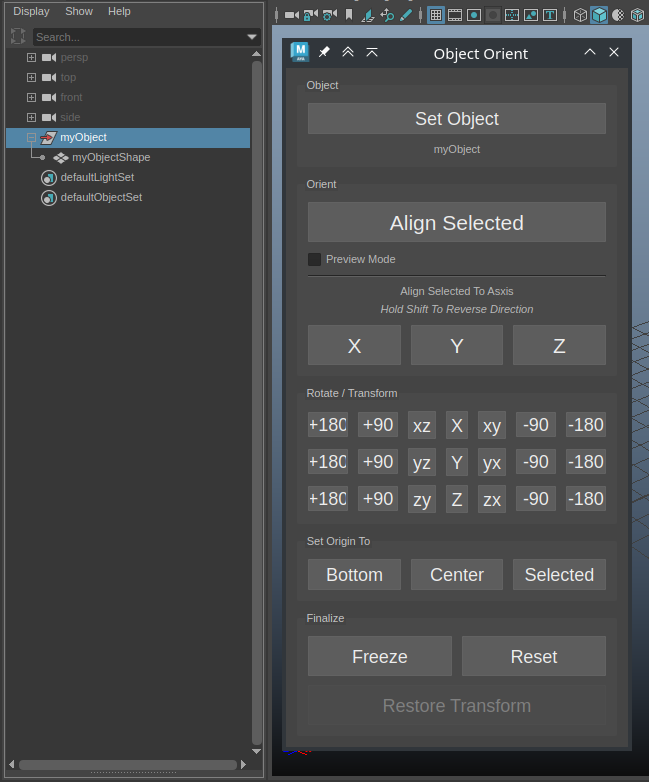
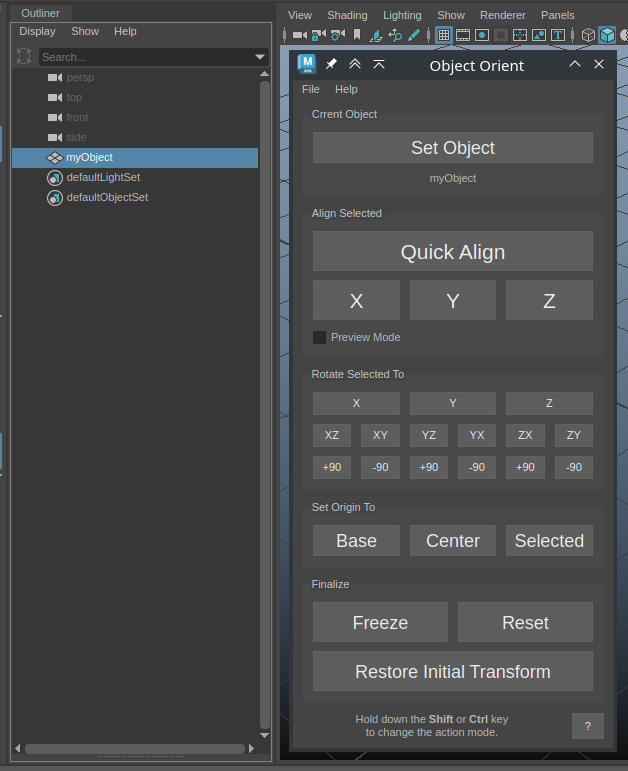
reorganize repository

Changed region(s): [[0.0, 0.0, 1.0, 1.0], [0.7866, 0.4358, 0.9379, 0.4669]]

diff --git a/pw_maya_restore_orient/orient_dialog.py b/pw_maya_restore_orient/orient_dialog.py
@@ -25,7 +25,7 @@ qMaya = ui.PyUI('MayaWindow').asQtObject()
 
 
 class ObjectOrientDialog(QMainWindow, dialog_UI.Ui_ObjectOrient):
-    manual_url = 'https://github.com/paulwinex/pw-maya-restore-object-orient/README.md'
+    manual_url = 'https://github.com/paulwinex/pw-maya-restore-object-orient/blob/master/README.md'
 
     def __init__(self):
         super(ObjectOrientDialog, self).__init__(qMaya)
@@ -94,6 +94,9 @@ class ObjectOrientDialog(QMainWindow, dialog_UI.Ui_ObjectOrient):
         self.freeze_btn.clicked.connect(self.on_freeze_pressed)
         self.reset_btn.clicked.connect(self.on_reset_pressed)
         self.restore_btn.clicked.connect(self.on_restore_pressed)
+        # Other
+        self.help_btn.clicked.connect(self.on_help_pressed)
+        self.manual_act.triggered.connect(self.on_help_pressed)
         # Variables
         self.orient = None  # type: ignore
         self.setFocusPolicy(Qt.StrongFocus)
@@ -256,6 +259,12 @@ class ObjectOrientDialog(QMainWindow, dialog_UI.Ui_ObjectOrient):
         except Exception as e:
             PopupError(str(e))
             traceback.print_exc()
+
+    def on_help_pressed(self):
+        import webbrowser
+        webbrowser.open(self.manual_url)
+
+    # key callbacks
 
     def update_texts(self) -> None:
         for w in self._alter_widgets:

diff --git a/README_RU.md b/README_RU.md
@@ -1,12 +1,11 @@
-# Maya Orient Tool
-
-![Dialog](images/img1.png)
+# Maya Restore Orient Tool
 
 Позволяет восстановить ориентацию объекта на основании выбранных опорных элементов.
 Этот инструмент полезен в случаях когда исходный объект был трансформирован в сцене 
 и трансформации были заморожены. Например, вся геометрия в сцене слита в единый объект.
 После разъединения большого объекта в отдельные объекты Orient Tool поможет вам восстановить трансформации
 исходных объектов и переместить их в центр мировых координат.
+Также можно вернуть восстановленный объект в исходное место в сцене, но уже с правильными трансформациями.
 
 ### Установка
 
@@ -15,9 +14,20 @@
 Для запуска в Maya добавьте кнопку с таким кодом
 
 ```python
-import pw_restore_object_orient
-pw_restore_object_orient.show()
+import pw_maya_restore_orient
+pw_maya_restore_orient.show()
 ```
+
+### Использование
+
+1. Для начала выберите в сцене объект. Это должна быть `Transform` нода. Не важно, один объект или группа. Нажмите кнопку `Set Object`
+2. Перейдите в режим выделения компонентов и выберите опорные элементы.
+При выделении старайтесь выбрать элементы находящиеся на оси симметрии или расположенные симметрично относительно центральной оси. 
+При выделении множества компонентов имеет смысл выбирать копланарные компоненты (лежат в одной плоскости).
+Из выбранных компонентов создается опорный вектор с которым в дальнейшем проводятся манипуляции выравнивания и поворотов.
+3. Выберите операцию и нажмите соответствующую кнопку в диалоге. 
+
+> Результаты операций выравнивания будут отличаться при зажатых модификаторах `Shift` и `Ctrl`.
 
 ### Варианты опорных элементов
 
@@ -33,61 +43,77 @@ pw_restore_object_orient.show()
 - 2 faces
 - multiple faces (more than 2)
 
-При выделении старайтесь выбрать опорные элементы находящиеся на оси симметрии 
-или расположенные симметрично относительно центральной оси. При выделении множества компонентов имеет смысл выбирать копланарные компоненты (лежат в одной плоскости). 
+#### Расчёт исходного вектора
 
-### Элементы управления
+Из любых поддерживаемых комбинаций выделенных компонентов всегда рассчитывается исходный вектор или базис для поворота.
+Например, если выделен 1 полигон то его исходный вектор это **нормаль данного полигона**. Если выделено несколько полигонов,
+то исходный вектор это **усреднённая нормаль** этих полигонов.
+При выделении ребра исходный вектор направлен **вдоль этого ребра**. 
+При выделении двух точке вектор будет направлен **из одной точки в другую**.
 
-`Set Object` - выбрать объект с которым будете работать. Это может быть только нода типа `Transform`. Если выбрана группа, то все манипуляции будут влиять на все объекты в группе.
+Это следует учитывать при выборе опорных компонентов.
 
-`Align Selected` - выровнять объект используя текущее выделение
+### Элементы управления диалога
 
-`Align Selected To Axis` - выровнять объект используя текущее выделение, при этом выделенный опорный элемент будет ориентирован по определённой оси. 
+![Dialog](images/img1.png)
+
+#### Current Object
+
+`Set Object` - Выбрать объект с которым будете работать. Это может быть только нода типа `Transform`. 
+Если выбрана группа, то все манипуляции будут влиять на все объекты в группе.
+С зажатой клавишей `Shift` текущий объект будет сброшен.
+
+#### Align Selected 
+
+`Quick Align` - Быстро выровнять объект используя текущее выделение. С зажатой клавишей `Shift` инвертируется опорный вектор. 
+Быстрое выравнивание выбирает ближайшую к опорному вектору мировую ось. Зажмите **Shift**, чтобы инвертировать направление выравнивания. 
+
+`X/Y/Z` - Выровнять объект используя текущее выделение, при этом выделенный опорный элемент будет ориентирован по выбранной оси. 
 Зажмите **Shift**, чтобы инвертировать направление этой оси.
 
-`Rotate` - группа кнопок для быстрого вращения и выравнивания ориентации
+#### Rotate Selected To
 
-`X/Y/Z` - Ориентировать объект вдоль выбранной оси относительно выбранного элемента. Рассчитанный вектор будет направлен ровно по указанной оси.
+Группа кнопок для быстрого вращения и выравнивания ориентации.
 
-`xz/xy/yz/yx/zy/zx` - Повернуть ось выбранного элемента на выбранную плоскость по кратчайшему пути. 
-Перед нажатием зажмите **Shift**, чтобы повернуть вокруг первой оси, и **Ctrl**, чтобы повернуть вокруг второй оси. 
-Например, если выделить ребро и нажать кнопку `xz` то объект повернётся выбранным ребром к плоскости `xz` по кратчайшему пути.
-Если перед нажатием зажать **Shift**, то вращение произойдет вдоль оси `x`, если зажать **Ctrl**, то ось вращения будет глобальная ось `z`. 
+`X/Y/Z` - Ориентировать объект вдоль выбранной оси относительно выбранного элемента. 
+Рассчитанный вектор будет направлен ровно по указанной оси.
+
+`XZ/XY/YZ/YX/ZY/ZX` - Повернуть ось выбранного элемента на выбранную плоскость. Удобно для коррекции ориентации объекта
+после основного выравнивания.
+
+По умолчанию выбирается кротчайший путь. Осью поворота будет перпендикуляр к опорному вектору лежащий на указанной плоскости.
+Клавиши `Shift` и `Ctrl` изменяют ось поворота. Выбранная ось остается написана на кнопку заглавной буквой.
+
+Например, если выделить ребро и нажать кнопку `XZ` то объект повернётся выбранным ребром к плоскости `xz` по кратчайшему пути.
+Если зажать `Shift`, то текст на кнопке изменится на `Xz`, то есть вращение произойдет вдоль оси `X`. 
+Если зажать `Ctrl`, то текст изменится на `xZ`, ось вращения будет ось `Z`. 
+
 Это позволить сохранить изначальную ориентацию вдоль указанной оси.
 
-`+180/+90/-90/-180` - вращение по указанной оси на указанный угол
+`+90 / -90` - вращение по указанной оси на указанный угол. 
+При нажатии `Shift` угол меняется на 180, с клавишей `Ctrl` угол меняется на 180.
 
-`Bottom` - Переместить объект в центр координат по `X` и `Z` и выровнять самую нижнюю точку в 0 по оси `Y`.
+#### Set Origin To
+
+`Base` - Переместить объект в центр координат по `X` и `Z` и выровнять самую нижнюю точку в 0 по оси `Y`.
 
 `Center` - Переместить центр объекта в центр мировых координат.
 
 `Selected` - Найти центр выделенных элементов и переместить его в центр мировых координат.
 
+#### Finalize 
+
 `Freeze` - вызвать команду `Modify/Freeze Transformations` для текущего объекта и всех дочерних объектов.
 
 `Reset` - сбросить изменения текущего объекта. 
 
-`Restore Transform` - Восстановить исходные трансформации объекта с сохранением новых пивотов. 
-Опция доступна после команды Freeze и пока не сброшен выбор текущего объекта. 
+`Restore Transform` - Восстановить исходное положение объекта в сцене после восстановления трансформаций. 
+Опция доступна после команды `Freeze` и пока не сброшен выбор текущего объекта. 
 Объект переместится в исходное положение, но уже с правильными трансформациями относительно новой ориентации и позиции.
 
-### Расчёт исходного вектора
+### API
 
-Из любых поддерживаемых комбинаций выделенных компонентов всегда рассчитывается исходный вектор или базис для поворота.
-Например, если выделен 1 полигон то его исходный вектор это нормаль данного полигона. Если выделено несколько полигонов,
-то исходный вектор это усреднённая нормаль этих полигонов.
-При выделении ребра исходный вектор направлен вдоль этого ребра. 
-При выделении двух точке вектор будет смотреть их одной точки в другую.
-
-Это следует учитывать при выборе опорных компонентов.
-
-### Отличие команд поворота
-
-Кнопки `X/Y/Z` всегда ориентируют исходный вектор вдоль указанной оси. Их стоит использовать как первичный поворот.
-
-Кнопки `xz/xy/yz/yx/zy/zx` поворачивают опорный вектор на проекцию указанной плоскости. Лучше использовать для корректирующего поворота. 
-При использовании модификаторов **Shift** и **Ctrl** можно сохранять ориентацию относительно глобальных осей при проецировании компонентов на плоскость.
-Также учитывайте что для полигонов опорный вектор будет нормалью этого полигона, а не плоскость полигона. 
+> todo
 
 ### TODO
 

diff --git a/README.md b/README.md
@@ -1,22 +1,33 @@
-# Maya Orient Tool
-
-![Dialog](images/img1.png)
+# Maya Restore Orient Tool
 
 Allows you to restore the orientation of an object based on selected reference elements.
 This tool is useful when the original object has been transformed in the scene
 and the transformations have been frozen. For example, all geometry in the scene has been merged into a single object.
 After separating the large object into individual objects, the Orient Tool will help you restore the transformations
 of the original objects and move them to the center of the world coordinates.
+You can also return the restored object to its original location in the scene, but with the correct transformations.
 
 ### Installation
-Copy the pw_restore_object_orient folder to the Maya scripts directory. For example, `~/maya/scripts`.
 
-To launch in Maya, add a button with the following code:
+Copy the `pw_restore_object_orient` folder to the Maya scripts directory, for example `~/maya/scripts`
+
+To launch in Maya, add a button with this code
 
 ```python
-import pw_restore_object_orient
-pw_restore_object_orient.show()
+import pw_maya_restore_orient
+pw_maya_restore_orient.show()
 ```
+
+### Usage
+
+1. First, select an object in the scene. This should be a `Transform` node. It doesn't matter if it's a single object or a group. Click the `Set Object` button.
+2. Switch to component selection mode and select reference elements.
+   When selecting, try to choose elements that are on the axis of symmetry or are symmetrically positioned relative to the central axis.
+   When selecting multiple components, it makes sense to choose coplanar components (lie in the same plane).
+   A reference vector is created from the selected components, which is then used for alignment and rotation manipulations.
+3. Select an operation and click the corresponding button in the dialog.
+
+> The results of alignment operations will differ when the `Shift` and `Ctrl` modifiers are held.
 
 ### Reference Element Options
 
@@ -32,61 +43,79 @@ pw_restore_object_orient.show()
 - 2 faces
 - multiple faces (more than 2)
 
-When selecting, try to choose reference elements that are on the axis of symmetry
-or are symmetrically positioned relative to the central axis. When selecting multiple components, it makes sense to choose coplanar components (lie in the same plane).
+#### Calculation of the Initial Vector
 
-## Controls
-
-`Set Object` - Select the object you will work with. This can only be a Transform node type. If a group is selected, all manipulations will affect all objects in the group.
-
-`Align Selected` - Align the object using the current selection.
-
-`Align Selected To Axis` - Align the object using the current selection, with the selected reference element oriented along a specific axis. 
-Hold **Shift** to invert the direction of this axis.
-
-`Rotate` - Group of buttons for quick rotation and alignment of orientation.
-
-`X/Y/Z` - Orient the object along the selected axis relative to the selected element. The calculated vector will be exactly along the specified axis.
-
-`xz/xy/yz/yx/zy/zx` - Rotate the axis of the selected element to the selected plane along the shortest path.
-Before pressing, hold **Shift** to rotate around the first axis, and **Ctrl** to rotate around the second axis.
-For example, if you select an edge and press the xz button, the object will rotate with the selected edge to the xz plane along the shortest path.
-If you hold **Shift** before pressing, the rotation will occur along the x-axis, if you hold **Ctrl**, the rotation axis will be the global z axis.
-This allows you to maintain the original orientation along the specified axis.
-
-`+180/+90/-90/-180` - Rotate along the specified axis by the specified angle.
-
-`Bottom` - Move the object to the center of the coordinates along X and Z and align the lowest point to 0 along the Y axis.
-
-`Center` - Move the center of the object to the center of the world coordinates.
-
-`Selected` - Find the center of the selected elements and move it to the center of the world coordinates.
-
-`Freeze` - Invoke the `Modify/Freeze Transformations` command for the current object and all child objects.
-
-`Reset` - Reset the changes to the current object.
-
-`Restore Transform` - Restore the original transformations. This option is available as long as the current object selection is not reset.
-
-### Calculation of the Source Vector
-
-From any supported combinations of selected components, a source vector or basis for rotation is always calculated.
-For example, if 1 polygon is selected, its source vector is the normal of that polygon. If multiple polygons are selected,
-the source vector is the averaged normal of those polygons.
-When selecting an edge, the source vector is directed along that edge.
-When selecting two points, the vector will point from one point to the other.
+From any supported combination of selected components, an initial vector or basis for rotation is always calculated.
+For example, if 1 polygon is selected, its initial vector is the **normal of that polygon**. If multiple polygons are selected,
+the initial vector is the **average normal** of those polygons.
+When an edge is selected, the initial vector is directed **along that edge**.
+When two points are selected, the vector will be directed **from one point to the other**.
 
 This should be considered when choosing reference components.
 
-### Difference Between Rotation Commands
+### Dialog Controls
 
-The `X/Y/Z` buttons always orient the source vector along the specified axis. They should be used as the primary rotation.
+![Dialog](images/img1.png)
 
-The `xz/xy/yz/yx/zy/zx` buttons rotate the reference vector to the projection of the specified plane. It is better to use them for corrective rotation.
-When using the **Shift** and **Ctrl** modifiers, you can maintain the orientation relative to the global axes when projecting components onto the plane.
+#### Current Object
 
+`Set Object` - Select the object you will work with. This can only be a `Transform` node.
+If a group is selected, all manipulations will affect all objects in the group.
+With the `Shift` key held, the current object will be reset.
+
+#### Align Selected
+
+`Quick Align` - Quickly align the object using the current selection. With the `Shift` key held, the reference vector is inverted.
+Quick alignment selects the nearest world axis to the reference vector. Hold **Shift** to invert the alignment direction.
+
+`X/Y/Z` - Align the object using the current selection, with the selected reference element oriented along the chosen axis.
+Hold **Shift** to invert the direction of this axis.
+
+#### Rotate Selected To
+
+Group of buttons for quick rotation and orientation alignment.
+
+`X/Y/Z` - Orient the object along the selected axis relative to the chosen element.
+The calculated vector will be directed exactly along the specified axis.
+
+`XZ/XY/YZ/YX/ZY/ZX` - Rotate the axis of the selected element to the chosen plane. Useful for correcting the orientation of the object
+after primary alignment.
+
+By default, the shortest path is chosen. The rotation axis will be perpendicular to the reference vector lying on the specified plane.
+The `Shift` and `Ctrl` keys change the rotation axis. The chosen axis remains written on the button in uppercase.
+
+For example, if you select an edge and press the `XZ` button, the object will rotate with the selected edge to the `xz` plane along the shortest path.
+If you hold `Shift`, the text on the button will change to `Xz`, meaning the rotation will occur along the `X` axis.
+If you hold `Ctrl`, the text will change to `xZ`, and the rotation axis will be the `Z` axis.
+
+This allows you to maintain the original orientation along the specified axis.
+
+`+90 / -90` - Rotate along the specified axis by the specified angle.
+Pressing `Shift` changes the angle to 180, and pressing `Ctrl` also changes the angle to 180.
+
+#### Set Origin To
+
+`Base` - Move the object to the center of coordinates along `X` and `Z` and align the lowest point to 0 along the `Y` axis.
+
+`Center` - Move the center of the object to the center of world coordinates.
+
+`Selected` - Find the center of the selected elements and move it to the center of world coordinates.
+
+#### Finalize
+
+`Freeze` - Call the `Modify/Freeze Transformations` command for the current object and all child objects.
+
+`Reset` - Reset the changes to the current object.
+
+`Restore Transform` - Restore the original position of the object in the scene after restoring transformations.
+This option is available after the `Freeze` command and before the current object selection is reset.
+The object will be moved to its original position but with the correct transformations relative to the new orientation and position.
+
+### API
+
+> todo
 
 ### TODO
 
-- The projection onto a plane is not yet designed to work with polygons.
+- Projection to the plane is not yet calculated for polygons
 - Interface for aligning multiple identical objects according to one rule
